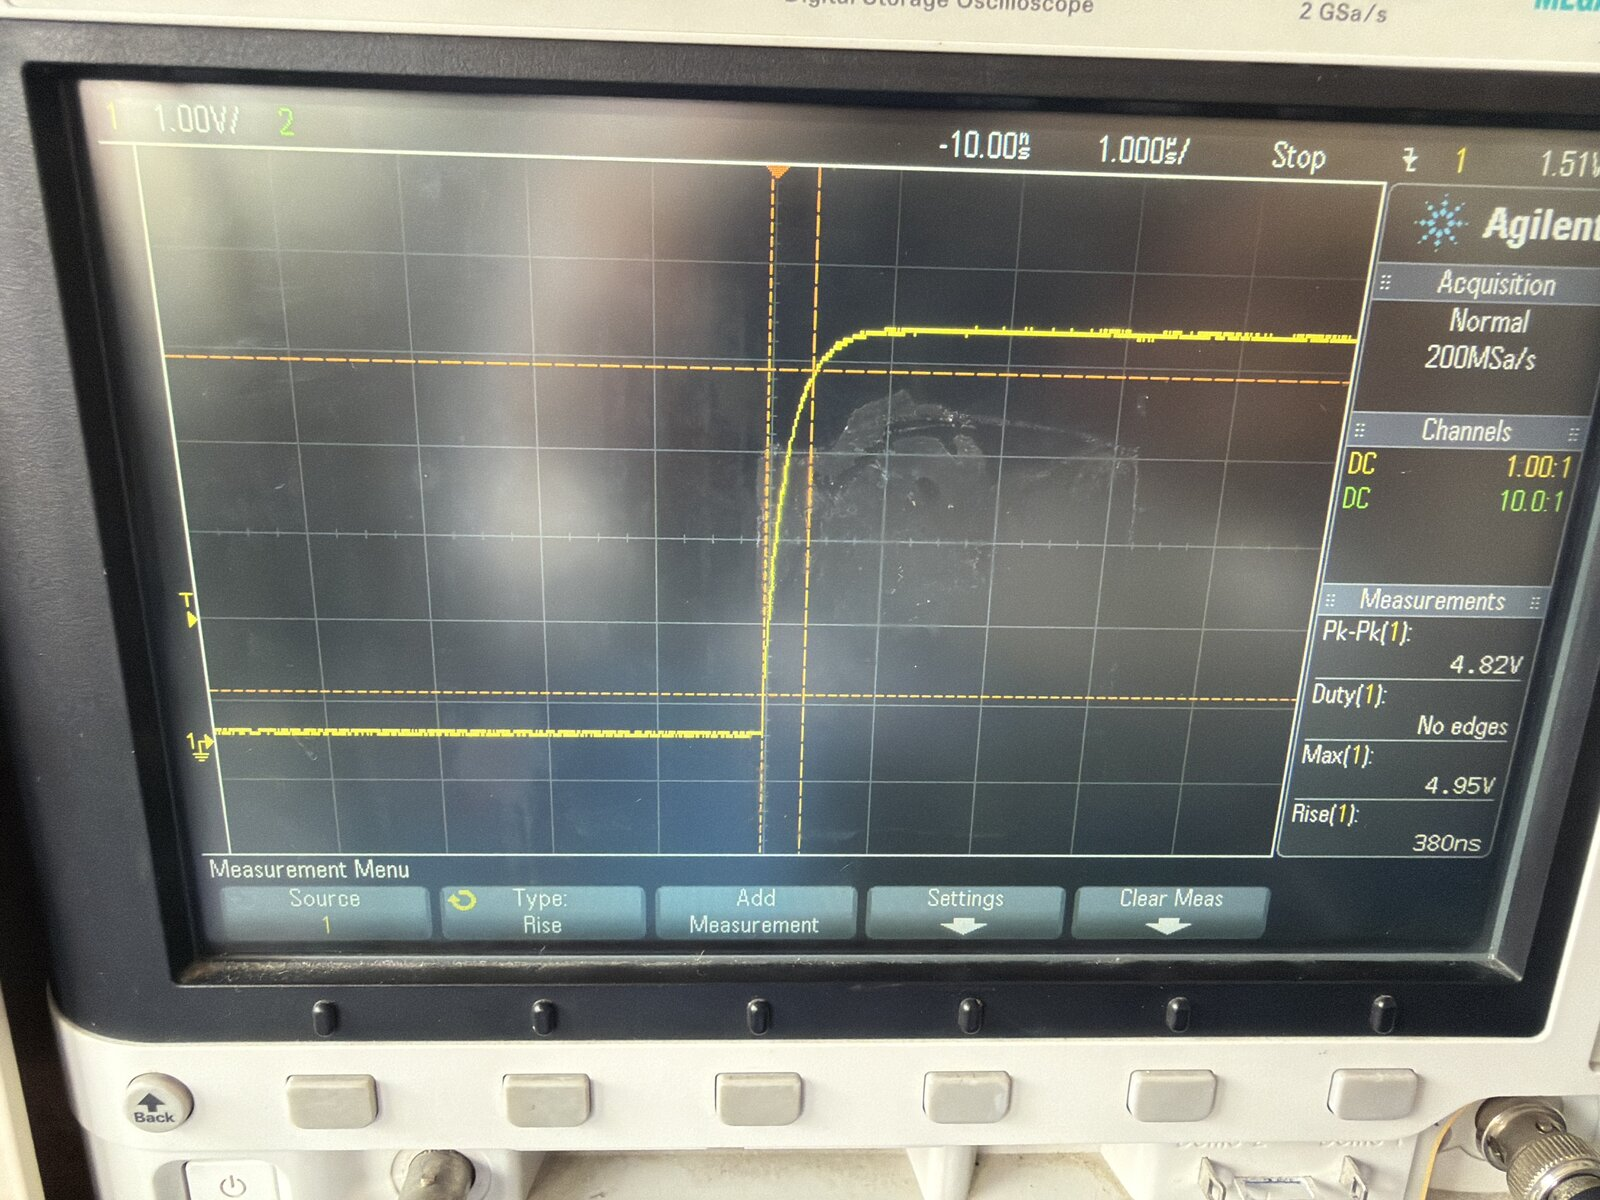
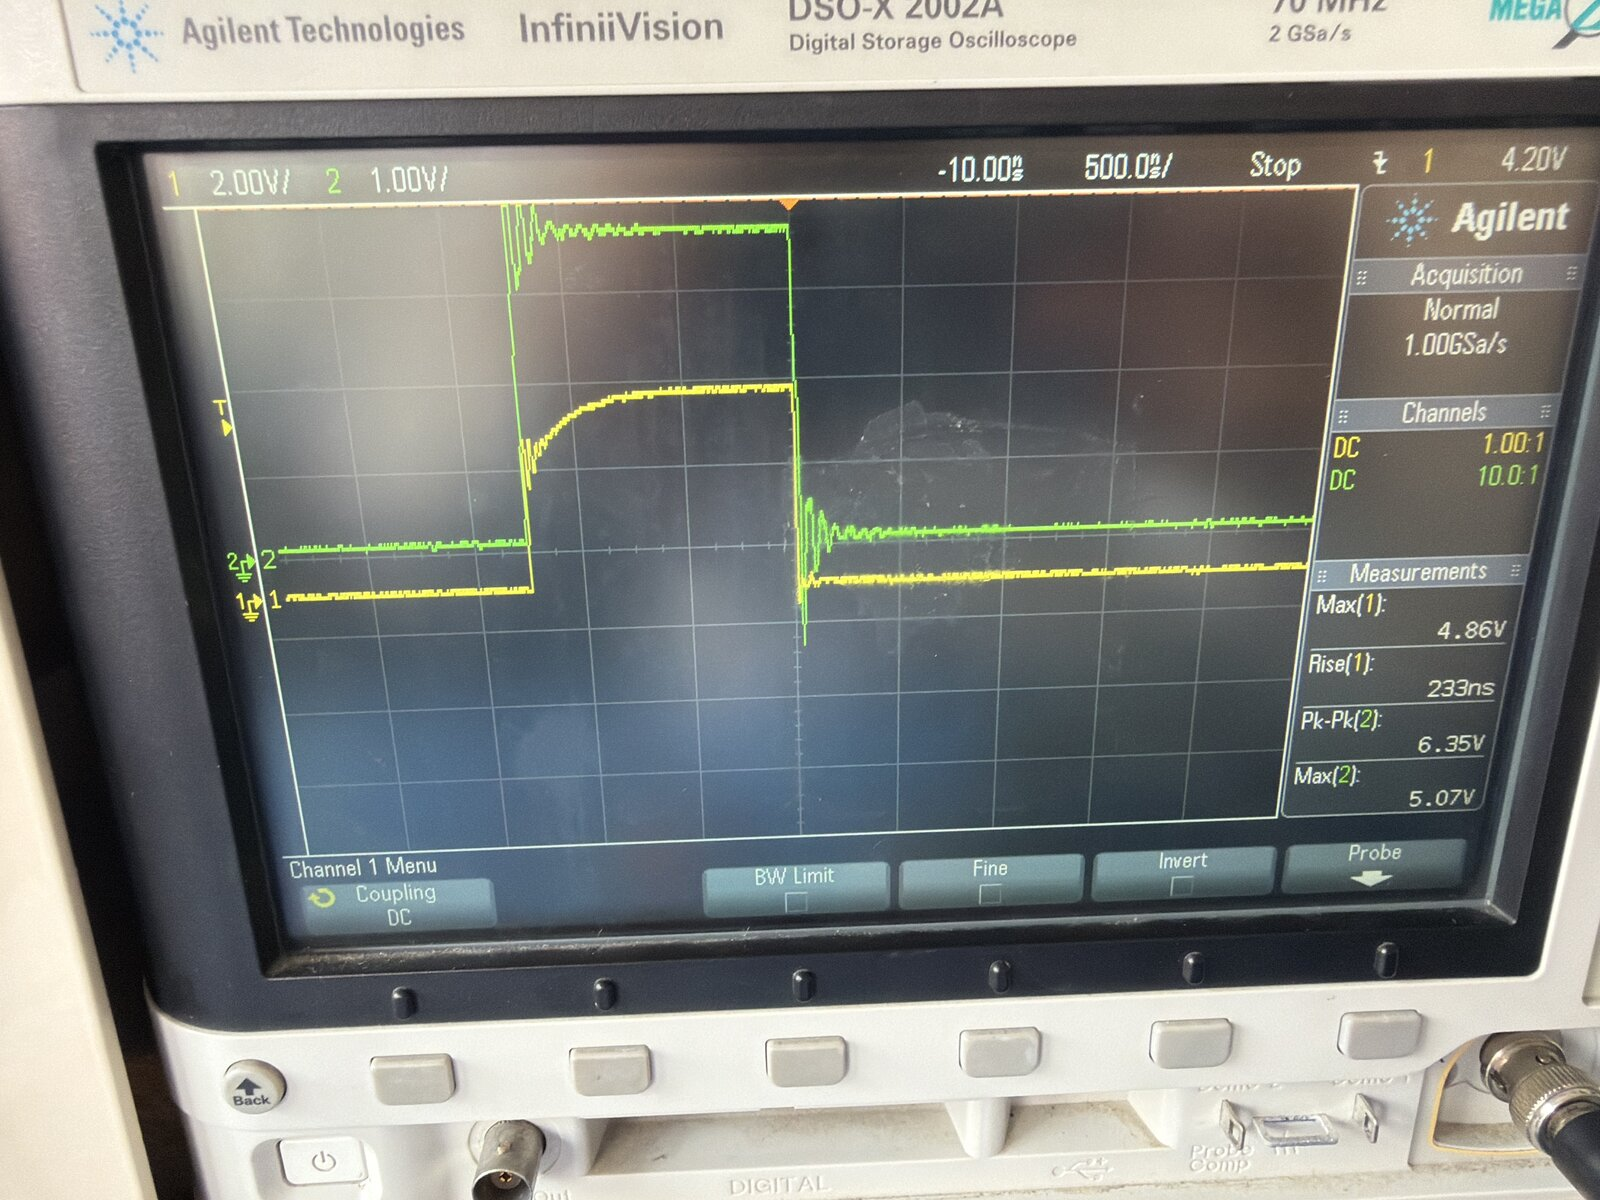
docs: add the Task 5 scope captures for both enable pulse cases (#63)
Replace the single channel phone photo with the bench captures taken with
the continuous rewrite build: the 8 NOP pulse, cursors on its rise (220 ns
to 3.5 V) and width (1.250 us), and the 0 NOP failing case (240 ns spike).
Update the rise time, capacitance and NOP derivation to the measured values
and drop the paragraph saying the failing case was not captured.

diff --git a/Practical_1B/prac1B_lxxtri004_shrgil004.tex b/Practical_1B/prac1B_lxxtri004_shrgil004.tex
@@ -796,10 +796,16 @@ high, so the climb from 0 V to 3.5 V is dead time. An enable pulse whose high
 period is only long enough on the 3.3 V side leaves the 5 V side below threshold
 for the whole pulse, the panel never latches, and nothing appears on the screen.
 
-The failing case was not captured on the bench. The routine was only run
-with the NOP count already in place, so the report has no trace of PC15\_S
-staying below 3.5 V for a whole pulse. What was measured is the rising edge
-itself, which is enough to size the pulse, and that is in the next sections.
+The failing case was reproduced by building the same routine with
+\texttt{E\_HIGH\_NOPS = 0}, so E is high for the two cycles between the BSRR
+and BRR stores. Figure~\ref{fig:efail} is that pulse on \texttt{PC15\_S}: the
+cursors give 240 ns from the start of the climb to the fall, the line only
+just reaches 4.35 V before it is pulled down again, and there is no flat top
+at all, only ringing. The HD44780 wants at least 450 ns above its threshold,
+and this pulse spends well under half of that above 3.5 V. On this particular
+panel the letter still appeared with the 0 NOP build, so the controller
+tolerated a pulse outside its datasheet limits; that is not something to rely
+on, and the sized pulse in the next sections is what stays in the code.
 
 \subsection{The initialisation subroutine}
 
@@ -861,19 +867,23 @@ lcd_show_A:
 \subsection{Rise time measurement}
 
 \begin{itemize}
-  \item Probe: Agilent DSO-X 2002A, channel 1 on a 1:1 BNC lead, 1 V/div,
+  \item Probe: Agilent DSO-X 2002A, channel 1 on a 1:1 BNC lead, 2 V/div,
     ground clip on LCD pin 1 (VSS), signal clip on LCD pin 6 (E, the
-    \texttt{PC15\_S} net), 1 us/div, edge trigger on channel 1 at 1.5 V.
-    Board on the 8 MHz HSI, debugger not attached, RESET pressed by hand to
-    catch the edge. Figure~\ref{fig:efix} is the capture.
-  \item Measured high level on \texttt{PC15\_S}: 4.95 V (scope Max), so the
+    \texttt{PC15\_S} net), 500 ns/div, edge trigger on channel 1 in normal
+    mode. Board on the 8 MHz HSI, firmware built at -O2 (the routine is hand written assembly, so the level does not touch it), debugger not attached. The Task 5
+    build rewrites the letter in a loop so the pulse repeats and the scope can
+    trigger on it at any time. Figure~\ref{fig:efix} is the capture.
+  \item Channel 2 was a 10:1 probe on the PC15 header pin. It read a 5.07 V
+    maximum, above the 3.3 V rail, so that probe was not sitting on the
+    3.3 V side of the shifter and no number below comes from it.
+  \item Measured high level on \texttt{PC15\_S}: 4.86 V (scope Max), so the
     shifter does reach the 5 V rail.
-  \item Measured 10 to 90 percent rise time (scope Rise measurement): 380 ns.
-  \item Time from 0 V to 3.5 V is not a scope measurement directly. For a
-    first-order RC edge the 10 to 90 percent time is $2.197\,\tau$, so
-    $\tau = 380 / 2.197 \approx 173$ ns, and 3.5 V on a 5 V rail is reached at
-    $-\tau \ln(0.3) = 1.204\,\tau \approx 208$ ns. That 208 ns is the $t$ used
-    below.
+  \item Measured 10 to 90 percent rise time (scope Rise measurement): 233 ns.
+  \item Time from 0 V to 3.5 V, by cursors on the same edge
+    (Figure~\ref{fig:erise}): 220 ns. That is the $t$ used below.
+  \item Time E stays high with the 8 NOP pulse, by cursors from the rising
+    to the falling edge (Figure~\ref{fig:ewidth}): 1.250 us. Ten cycles at
+    125 ns is exactly 1.250 us, which is the two stores plus the eight NOPs.
 \end{itemize}
 
 \subsection{Capacitance calculation}
@@ -895,8 +905,13 @@ $V_C(t) = 3.5$ V,
 C = \frac{t}{1800 \times 1.20397} = \frac{t}{2167.1}.
 \]
 
-Substituting $t = 208$ ns gives $C = 208 / 2167.1 \approx 96$ pF. The same
-number falls out of $\tau = RC$ directly: $173~\text{ns} / 1800~\Omega = 96$ pF.
+Substituting $t = 220$ ns gives $C = 220 / 2167.1 \approx 102$ pF. The 10 to
+90 percent figure does not agree with that: for a clean exponential it would
+be $2.197\,\tau$, giving $\tau \approx 106$ ns and only 59 pF. The edge in
+Figure~\ref{fig:efix} is not a clean exponential, it starts steeper than an
+RC climb and then rounds off, so the two figures measure different parts of
+it. The 0 V to 3.5 V cursor time is the one the pulse sizing actually needs,
+so 102 pF is the value taken forward.
 
 \subsection{NOP count derivation}
 
@@ -908,11 +923,12 @@ the enable line must be held high for the rise time plus the hold requirement:
 n = \left\lceil \frac{t_{\text{rise}} + 450~\text{ns}}{125~\text{ns}} \right\rceil.
 \]
 
-With $t = 208$ ns this gives $n = \lceil 658 / 125 \rceil = 6$ NOPs. The
+With $t = 220$ ns this gives $n = \lceil 670 / 125 \rceil = 6$ NOPs. The
 source carries \texttt{E\_HIGH\_NOPS = 8} in \texttt{Core/Src/lcd\_asm.s},
-two cycles above the derived minimum. The panel was only tested at 8, where it
-shows the letter, so 8 stays in the code as the value with proof behind it;
-6 is the computed floor and was not tried on the bench.
+two cycles above the derived minimum. The panel was tested at 8, where it
+shows the letter and the pulse measures 1.250 us, and at 0 as the failing
+case; 6 is the computed floor and was not tried on the bench, so 8 stays in
+the code as the value with proof behind it.
 
 \begin{lstlisting}
     str     r1, [r0, #GPIO_BSRR]    @ 2  E high, PC15_S starts its RC climb
@@ -922,14 +938,26 @@ shows the letter, so 8 stays in the code as the value with proof behind it;
     str     r1, [r0, #GPIO_BRR]     @ 2  E low, the panel latches on this edge
 \end{lstlisting}
 
-Figure~\ref{fig:efix} is the rising edge of PC15\_S with the 8 NOP pulse in
-place, and Figure~\ref{fig:lcd} is the panel itself with the letter on it,
-which is the end to end proof that the timing is inside what the controller
-needs.
+Figure~\ref{fig:efix} is the whole pulse on PC15\_S with the 8 NOPs in
+place, Figures~\ref{fig:erise} and \ref{fig:ewidth} put cursors on its rise
+and its width, Figure~\ref{fig:efail} is the 0 NOP pulse for comparison, and
+Figure~\ref{fig:lcd} is the panel itself with the letter on it, which is the
+end to end proof that the timing is inside what the controller needs.
 
-\scopefig{task5-enable-fixed.jpg}{efix}{Rising edge of PC15\_S at the LCD
-E pin, 1 V/div, 1 us/div. Max 4.95 V, 10 to 90 percent rise 380 ns. The edge
-is the RC climb through the 1.8 k$\Omega$ pullup.}
+\scopefig{task5-enable-fixed.jpg}{efix}{The 8 NOP enable pulse on PC15\_S at
+the LCD E pin (channel 1, 2 V/div, 500 ns/div). Max 4.86 V, 10 to 90 percent
+rise 233 ns. The rising edge is the climb through the 1.8 k$\Omega$ pullup,
+the falling edge is driven and is much faster.}
+
+\scopefig{task5-enable-rise-cursors.jpg}{erise}{Cursors on the rising edge
+of the same pulse, X1 at 0 V and X2 at 3.5 V: 220 ns.}
+
+\scopefig{task5-enable-width-cursors.jpg}{ewidth}{Cursors on the rising and
+falling edges of the same pulse: 1.250 us high, ten cycles at 125 ns.}
+
+\scopefig{task5-enable-failing.jpg}{efail}{The failing case, the same
+routine built with 0 NOPs, trigger at 1.5 V. Cursors give 240 ns from the
+start of the climb to the fall, the peak is 4.35 V and there is no flat top.}
 
 \scopefig{task5-lcd-photo.jpg}{lcd}{The panel driven by the assembly
 routine, showing the letter A at the first column of the first line.}
